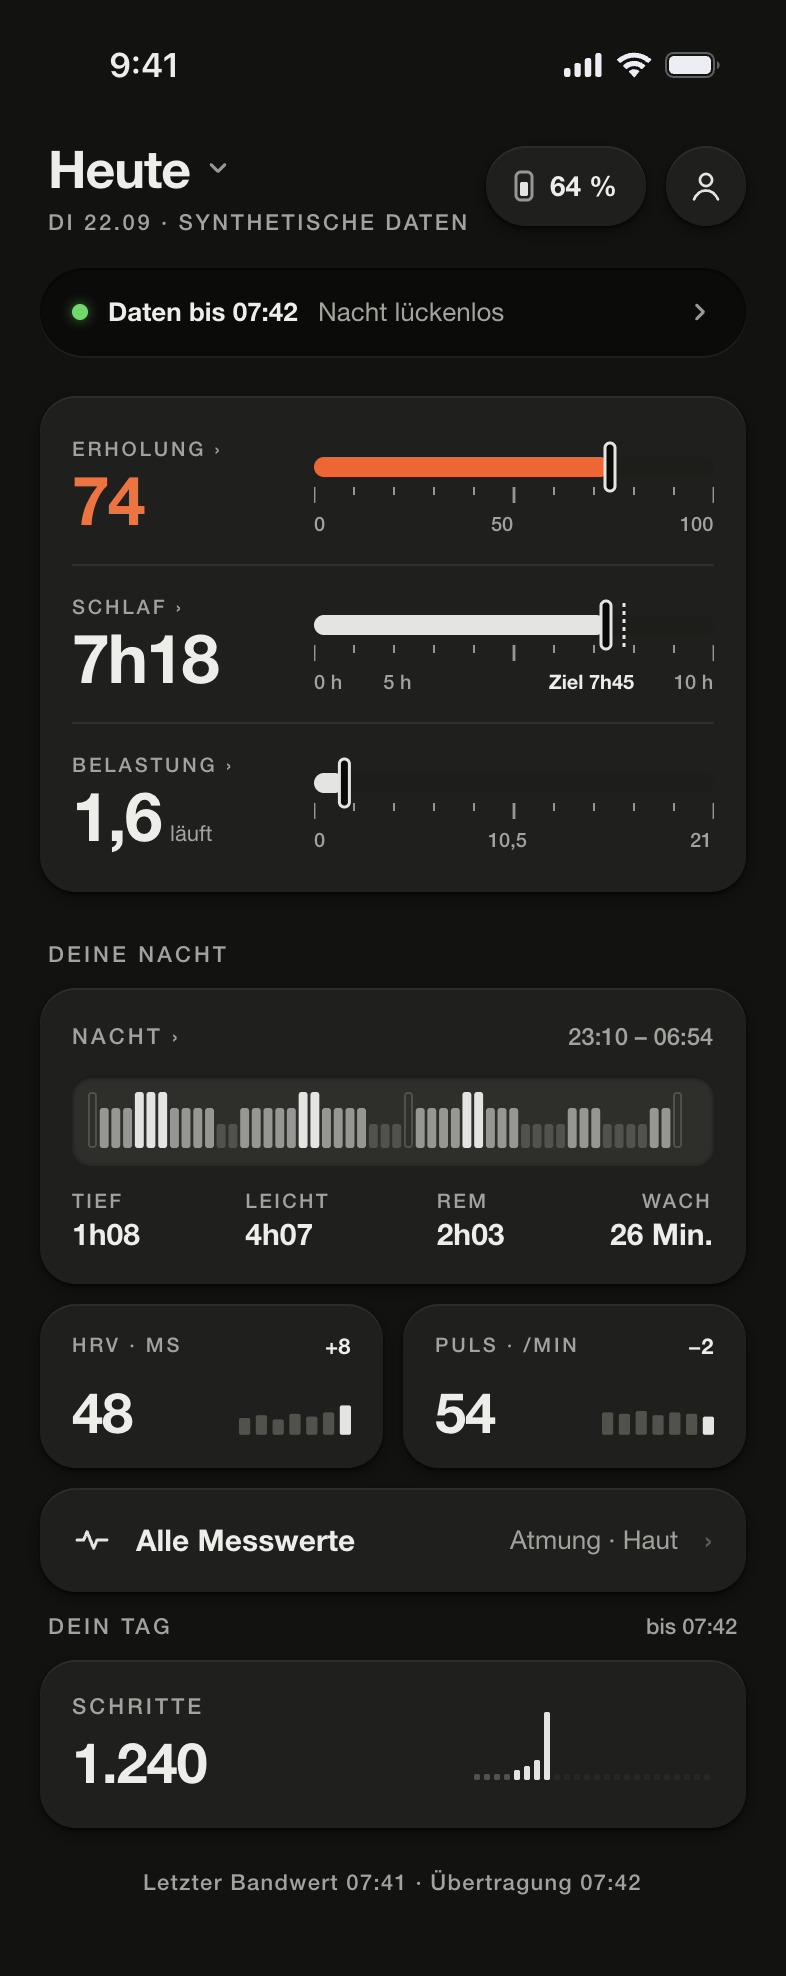
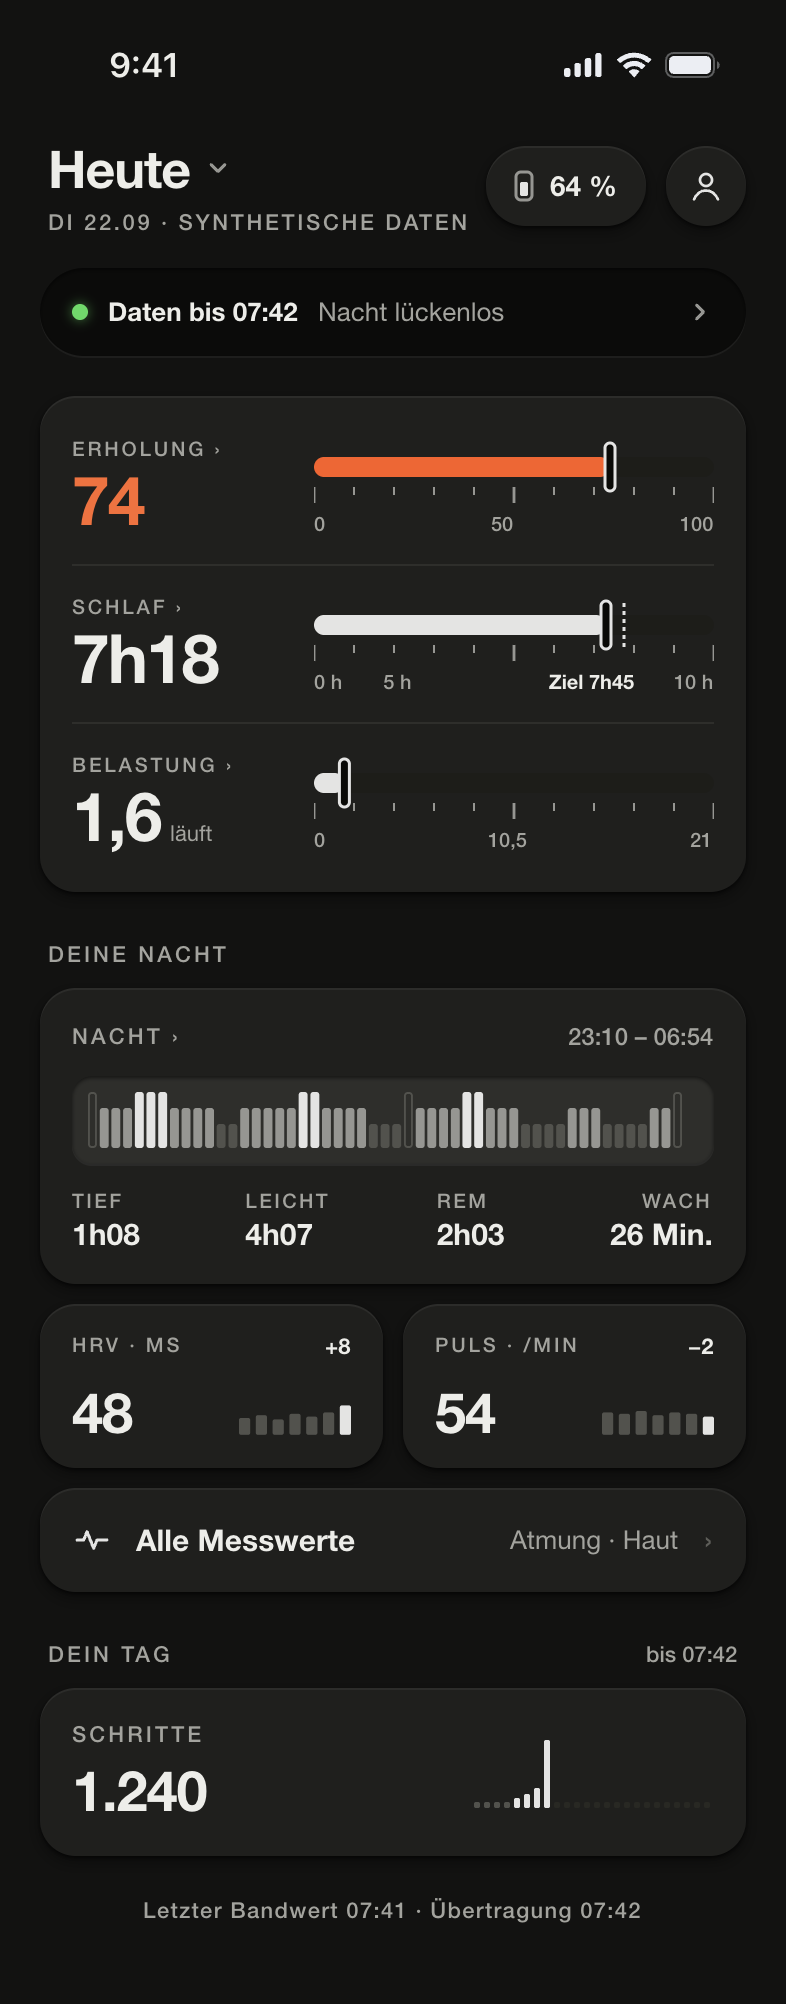
Start Dein Tag 24 pt below the card above, like Deine Nacht
Paper had Dein Tag 10 pt below Alle Messwerte, the same gap as between
cards, so its label read as part of the card above. Every section on
Heute now starts 24 pt down. Changed in Paper (G2 · 01 · Heute, light
and dark: "Nacht & Tag" paddingTop 10 -> 24) and here; references
re-exported. Diff: light 3.93 %, dark 3.35 %.

diff --git a/lib/openband/screens.dart b/lib/openband/screens.dart
@@ -176,7 +176,7 @@ class OpenBandOverview extends StatelessWidget {
                 ),
                 _OverviewSection(
                   title: 'Dein Tag',
-                  top: 10,
+                  top: 24,
                   trailing: controller.band.latestStoredAt == null
                       ? null
                       : 'bis ${obTime(controller.band.latestStoredAt)}',
